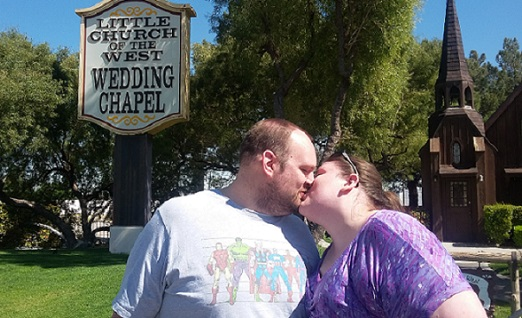
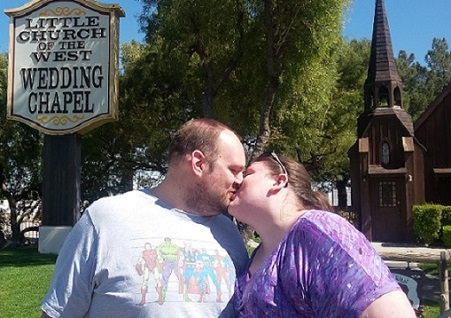
new jumbotron image, new photos

diff --git a/assets/javascript/wed.js b/assets/javascript/wed.js
@@ -2,32 +2,31 @@ $(document).ready(function() {
 
 //Countdown
 var countDownDate = new Date("March 30, 2018 19:00:00").getTime();
-
 // Update the count down every 1 second
 var x = setInterval(function() {
 // Get todays date and time
-  var now = new Date().getTime();
+var now = new Date().getTime();
 // Find the distance between now an the count down date
-  var distance = countDownDate - now;
+var distance = countDownDate - now;
 // Time calculations for days, hours, minutes and seconds
-  var days = Math.floor(distance / (1000 * 60 * 60 * 24));
-  var hours = Math.floor((distance % (1000 * 60 * 60 * 24)) / (1000 * 60 * 60));
-  var minutes = Math.floor((distance % (1000 * 60 * 60)) / (1000 * 60));
-  var seconds = Math.floor((distance % (1000 * 60)) / 1000);
+var days = Math.floor(distance / (1000 * 60 * 60 * 24));
+var hours = Math.floor((distance % (1000 * 60 * 60 * 24)) / (1000 * 60 * 60));
+var minutes = Math.floor((distance % (1000 * 60 * 60)) / (1000 * 60));
+var seconds = Math.floor((distance % (1000 * 60)) / 1000);
 
 // Display the result in the element with id="demo"
-  document.getElementById("clock").innerHTML = days + "d " + hours + "h "
-  + minutes + "m " + seconds + "s ";
+  $("#clock").text(days + "d " + hours + "h "
+  + minutes + "m " + seconds + "s");
 // If the count down is finished, write some text 
   if (distance < 0) {
     clearInterval(x);
-    document.getElementById("clock").innerHTML = "Just Married!";
+    $("#clock").text("Just Married!");
   }
 }, 1000);
 
 
 //Slideshow
-var images = ["assets/images/columbiagorge.jpg", "assets/images/dammm.jpg", "assets/images/eastcanyon.jpg", "assets/images/gala.jpg", "assets/images/lanterns.jpg", "assets/images/tricksy.jpg", "assets/images/beachboys.jpg", "assets/images/vegas.jpg", "assets/images/zoobrew.jpg", "assets/images/saltlake.jpg"];
+var images = ["assets/images/columbiagorge.jpg", "assets/images/dammm.jpg", "assets/images/eastcanyon.jpg", "assets/images/gala.jpg", "assets/images/lanterns.jpg", "assets/images/morevegas.jpg", "assets/images/beachboys.jpg", "assets/images/vegas.jpg", "assets/images/zoobrew.jpg", "assets/images/saltlake.jpg"];
 var showImage;
 var count = 0;
 
@@ -40,14 +39,13 @@ function displayImage() {
 
 function nextImage() {
   count++;
-  $("#image-holder").html("<img src='images/loading.gif' width='200px'/>");
   setTimeout(displayImage, 1000);
   if (count === images.length) {
     count = 0;
   }
 }
 function startSlideshow() {
-  showImage = setInterval(nextImage, 3000);
+  showImage = setInterval(nextImage, 2000);
 }
 function stopSlideshow() {
   clearInterval(showImage);

diff --git a/assets/css/style.css b/assets/css/style.css
@@ -4,11 +4,11 @@ body{
 }
 
 .jumbotron{
-	background-image: url('../images/stringlights3.jpeg');
+	background-image: url('../images/bokehlights.jpg');
 	font-family: 'Playfair Display', serif;
 	font-weight: bold;
 	color: #b076bf; /*#6a3782*/
-	text-shadow: 2px 1px #6a3782;
+	text-shadow: 3px 1px #6a3782;
 }
 
 .jumbotron h1{
@@ -31,9 +31,14 @@ body{
 	background-color: #b076bf;
 	text-align: center;
 	font-family: 'Playfair Display', serif;
-	font-size: 48px;
+	font-size: 52px;
 	color: #d4d1d6;
 
+}
+
+#wrapper {
+	width: 100%;
+	height: 800px;
 }
 
 #image-holder {

diff --git a/index.html b/index.html
@@ -11,8 +11,6 @@
 
 <body>
 
-
-
 <div class="jumbotron jumbotron-fluid">
   <div class="container">
     <h1 class="title"><h1>Peter & Maggie</h1>
@@ -20,7 +18,7 @@
   </div>
 </div>
 
- <div id=container>
+ <div id="wrapper">
 
 <div class="row">
   <div class="col-sm-12">
@@ -48,12 +46,9 @@
 
     <div class = "row">
       <div class="col-sm-2"></div>
-      <div class="col-sm-6">
-
-      <div>
+      <div class="col-sm-6"></div>
       <div class="col-sm-4"></div>
     </div>
-
 
 </div>
 
